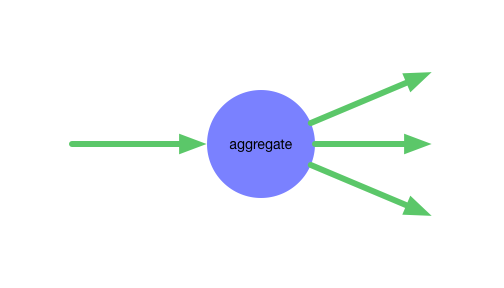
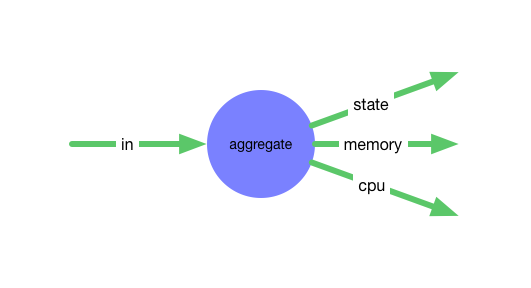
docs: example

diff --git a/doc/index.md b/doc/index.md
@@ -2,3 +2,32 @@ index
 =====
 
 ![data flow](overview.png)
+
+
+```json
+"my-aggregate-step": {
+  "type": "kronos-aggregate",
+  "aggregate": "by-endpoint-name",
+  "endpoints": {
+    "in": {
+      "in": true,
+      "opposite": true
+    },
+    "state": {
+      "out": true,
+      "opposite": true,
+      "target": "health-check:state"
+    },
+    "memory": {
+      "out": true,
+      "opposite": true,
+      "target": "health-check:memory"
+    },
+    "cpu": {
+      "out": true,
+      "opposite": true,
+      "target": "health-check:cpu"
+    }
+  }
+}
+```
